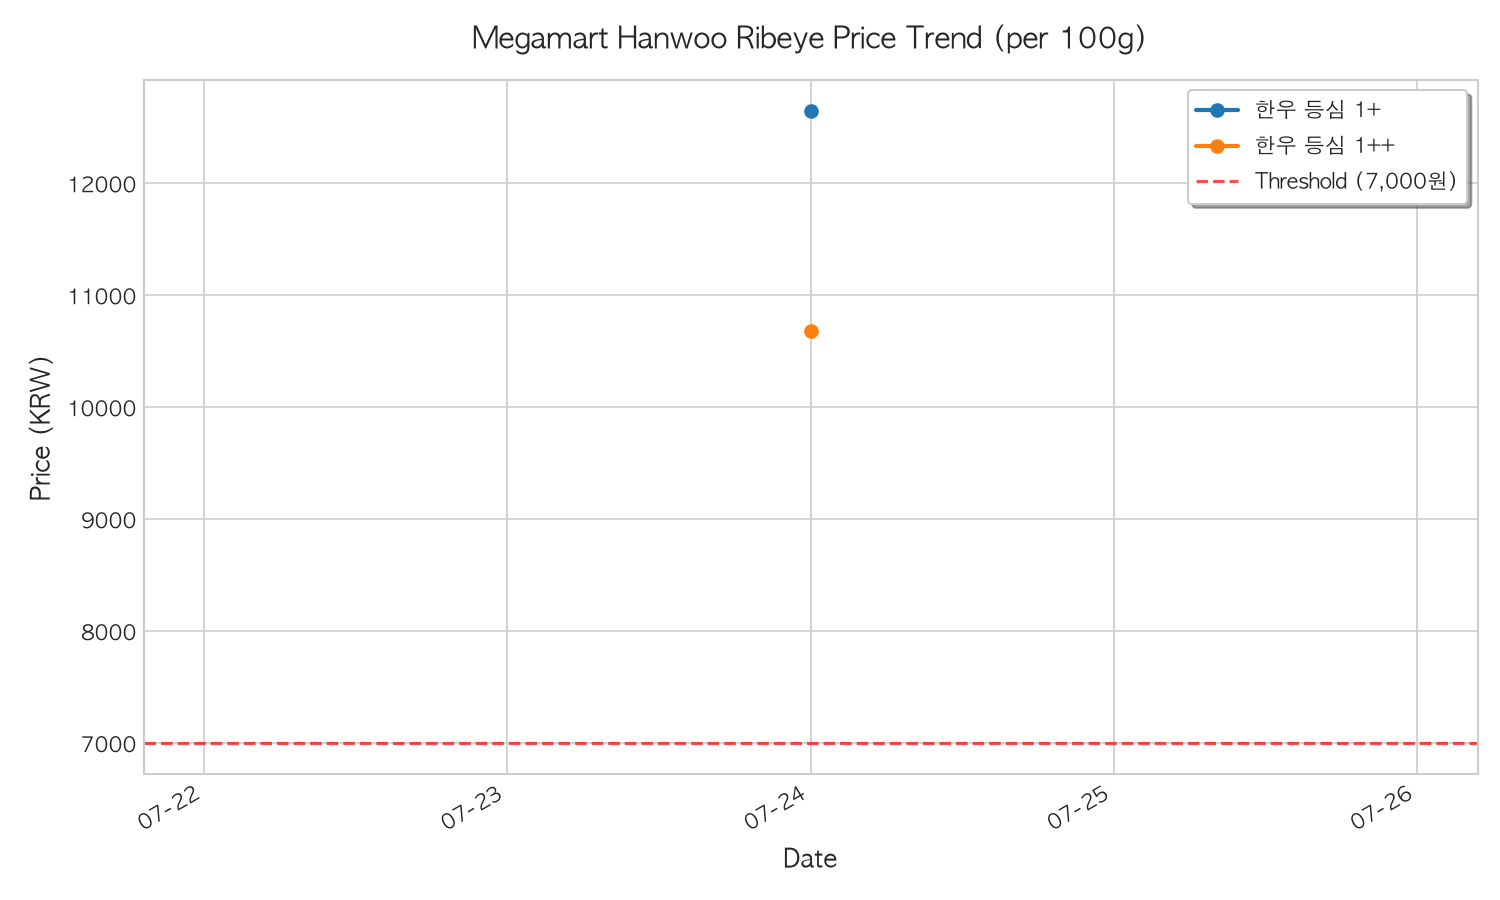
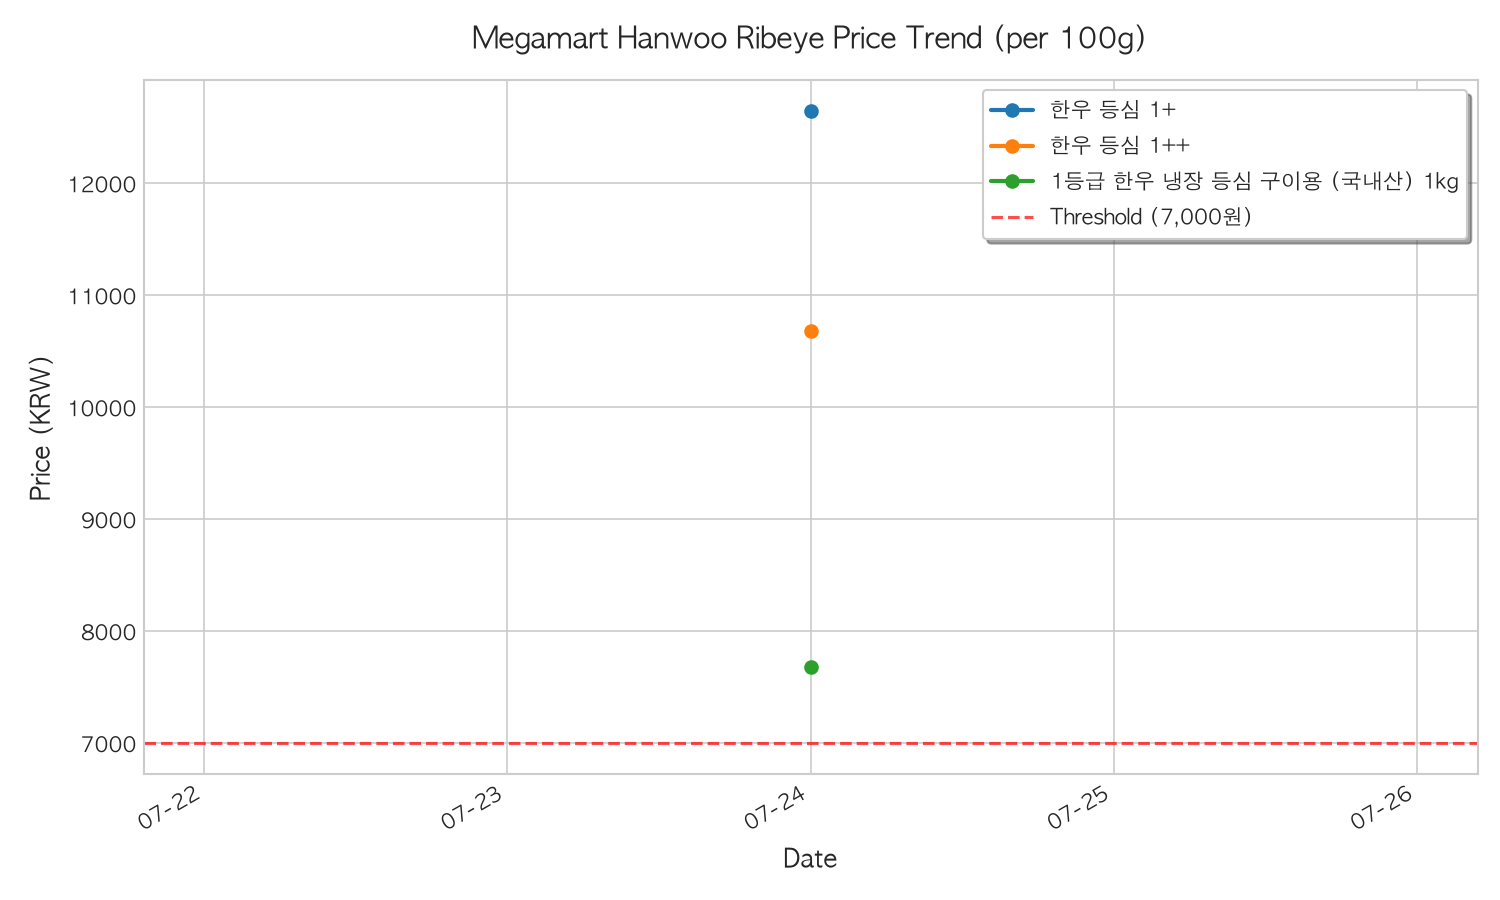
feat: Add 1kg Hanwoo Ribeye pack to monitor and normalize prices to 100g

Changed region(s): [[0.644, 0.0933, 0.9813, 0.28], [0.5213, 0.7156, 0.552, 0.7467]]

diff --git a/megamart_checker.py b/megamart_checker.py
@@ -134,10 +134,10 @@ def save_price_history_and_plot(products):
             writer = csv.writer(f)
             if not file_exists:
                 writer.writerow(["date", "product_name", "price"])
-            for name, price in products:
+            for name, price_per_100g, actual_price, weight in products:
                 if (today_str, name) not in existing_entries:
-                    writer.writerow([today_str, name, price])
-                    logging.info(f"Saved history: {today_str}, {name}, {price}원")
+                    writer.writerow([today_str, name, price_per_100g])
+                    logging.info(f"Saved history: {today_str}, {name}, 100g당 {price_per_100g}원")
     except Exception as e:
         logging.error(f"Failed to write to CSV: {e}")
         return
@@ -208,7 +208,10 @@ def save_price_history_and_plot(products):
 def update_readme(products, today_str):
     try:
         readme_path = "README.md"
-        latest_prices_str = "\n".join([f"- **{name}**: {price:,}원 (업데이트: {today_str})" for name, price in products])
+        latest_prices_str = "\n".join([
+            f"- **{name}**: 100g당 {price_per_100g:,}원 (현재 판매가: {actual_price:,}원/{weight}g) (업데이트: {today_str})" 
+            for name, price_per_100g, actual_price, weight in products
+        ])
         
         content = f"""# Naver Booking & Megamart Price Monitor
 
@@ -264,10 +267,9 @@ def check_megamart_prices(driver, dry_run=False):
                 continue
             title_text = title_els[0].text.strip()
             
-            # Filter condition: must contain both "한우" and "등심", and specifically "100g"
-            if "한우" in title_text and "등심" in title_text and "100g" in title_text:
+            # Filter condition: must contain both "한우" and "등심", and "구이용"
+            if "한우" in title_text and "등심" in title_text and "구이용" in title_text:
                 # Find price
-                # Prices are inside div.current-price strong.number
                 price_els = item.find_elements(By.CSS_SELECTOR, ".current-price .number")
                 if not price_els:
                     continue
@@ -276,12 +278,28 @@ def check_megamart_prices(driver, dry_run=False):
                 # Convert to integer (e.g. "12,640" -> 12640)
                 price_value = int(re.sub(r"[^\d]", "", price_text))
                 
-                monitored_products.append((title_text, price_value))
-                logging.info(f"Monitored item: '{title_text}' -> {price_value:,}원")
+                # Parse weight from title to calculate price per 100g
+                # Examples: "100g", "1kg", "1 kg", "600g"
+                weight = 100 # default fallback
+                weight_match = re.search(r"(\d+)\s*(g|kg)", title_text.lower())
+                if weight_match:
+                    val = int(weight_match.group(1))
+                    unit = weight_match.group(2)
+                    if unit == "kg":
+                        weight = val * 1000
+                    else:
+                        weight = val
                 
-                # Check threshold (<= 7000 KRW)
-                if price_value <= PRICE_THRESHOLD:
-                    cheap_products.append((title_text, price_value))
+                # Calculate price per 100g
+                price_per_100g = int((price_value / weight) * 100)
+                
+                # Store (title, price_per_100g, actual_price, weight)
+                monitored_products.append((title_text, price_per_100g, price_value, weight))
+                logging.info(f"Monitored item: '{title_text}' -> {price_value:,}원 ({weight}g) | 100g당 {price_per_100g:,}원")
+                
+                # Check threshold (<= 7000 KRW/100g)
+                if price_per_100g <= PRICE_THRESHOLD:
+                    cheap_products.append((title_text, price_per_100g, price_value, weight))
                     
         except Exception as item_err:
             logging.error(f"Error parsing item card: {item_err}")
@@ -290,18 +308,21 @@ def check_megamart_prices(driver, dry_run=False):
     driver.save_screenshot("screenshots/megamart_step2_check.png")
     
     # Log results
-    logging.info(f"Total matching 100g Hanwoo Ribeye products: {len(monitored_products)}")
+    logging.info(f"Total matching Hanwoo Ribeye 구이용 products: {len(monitored_products)}")
     
     # Save history and generate trend chart
     if monitored_products:
         save_price_history_and_plot(monitored_products)
         
     if cheap_products:
-        logging.info(f"ALERT: Found {len(cheap_products)} products below {PRICE_THRESHOLD:,}원!")
+        logging.info(f"ALERT: Found {len(cheap_products)} products below {PRICE_THRESHOLD:,}원/100g threshold!")
         
         # Build alert email body
-        product_list_str = "\n".join([f"- {name}: {price:,}원" for name, price in cheap_products])
-        email_subject = f"[알림] 메가마트 한우 등심 100g 가격 인하! ({PRICE_THRESHOLD:,}원 이하)"
+        product_list_str = "\n".join([
+            f"- {name}: 100g당 {price_per_100g:,}원 (현재 판매가: {price:,}원/{weight}g)" 
+            for name, price_per_100g, price, weight in cheap_products
+        ])
+        email_subject = f"[알림] 메가마트 한우 등심 가격 인하! (100g당 {PRICE_THRESHOLD:,}원 이하)"
         email_body = f"""
 [메가마트 한우 등심 가격 인하 알림]
 
@@ -319,10 +340,13 @@ def check_megamart_prices(driver, dry_run=False):
         send_email(email_subject, email_body, attachment_path="history/price_trend.png")
         return True
     else:
-        logging.info(f"No products found below the {PRICE_THRESHOLD:,}원 threshold.")
+        logging.info(f"No products found below the {PRICE_THRESHOLD:,}원/100g threshold.")
         if dry_run:
             logging.info("[Dry Run] Sending test email with current prices.")
-            product_list_str = "\n".join([f"- {name}: {price:,}원" for name, price in monitored_products])
+            product_list_str = "\n".join([
+                f"- {name}: 100g당 {price_per_100g:,}원 (현재 판매가: {price:,}원/{weight}g)" 
+                for name, price_per_100g, price, weight in monitored_products
+            ])
             
             test_subject = "[테스트] 메가마트 한우 등심 가격 모니터링 테스트"
             test_body = f"""
